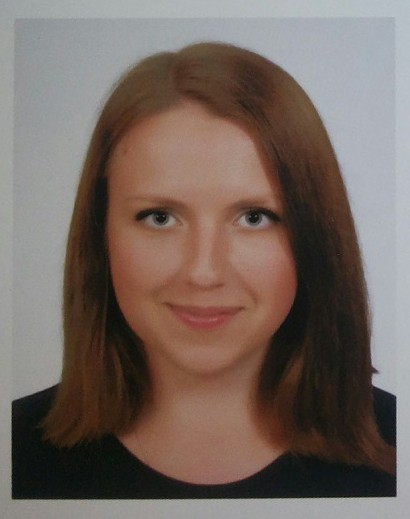
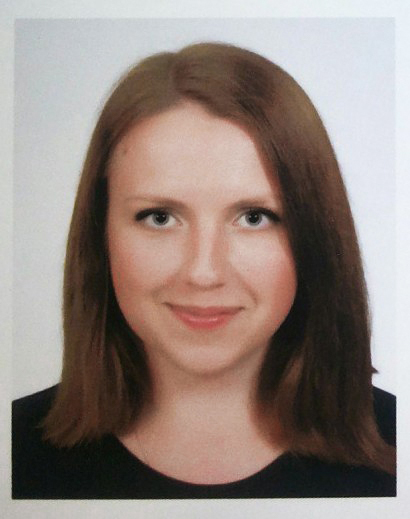
fix: fix images tint, rearrrange content and tweak styles for better readability

diff --git a/src/components/profile-card/profile-card.module.css b/src/components/profile-card/profile-card.module.css
@@ -10,7 +10,7 @@
 
 .image {
   width: 100%;
-  height: 360px;
+  height: 34rem;
   border-top-left-radius: var(--border-radius);
   border-top-right-radius: var(--border-radius);
 
@@ -20,7 +20,7 @@
 .outerContent {
   z-index: 50;
 
-  padding: 1rem;
+  padding: var(--padding-card);
   border-bottom-right-radius: var(--border-radius);
   border-bottom-left-radius: var(--border-radius);
 
@@ -31,16 +31,38 @@
 
 .fullname {
   font-size: 2.2rem;
+  font-weight: 500;
   text-align: center;
 }
 
 .readMore {
-  margin-top: 1rem;
+  position: relative;
+  margin-top: 2rem;
+  color: var(--color-accent-light);
   transition: color var(--transition-duration);
 }
 
+.readMore::after {
+  content: '';
+
+  position: absolute;
+  bottom: 0;
+  left: 50%;
+  transform: translateX(-50%);
+
+  display: block;
+
+  width: 35%;
+  height: 1px;
+
+  background-color: var(--color-accent-light);
+
+  transition: background-color var(--transition-duration);
+}
+
 .githubLink {
-  color: var(--color-accent-light);
+  font-family: var(--font-montserrat);
+  font-weight: 400;
   transition: color var(--transition-duration);
 }
 
@@ -48,18 +70,20 @@
   display: grid;
   gap: 2rem;
 
-  padding: 2rem;
+  padding: 2rem 3rem 3rem;
   border-radius: var(--border-radius);
 
-  background-color: var(--color-dark);
+  font-family: var(--font-montserrat);
+
+  background-color: var(--color-black);
 }
 
-.roles {
-  background-color: transparent;
+.modalContent .fullname {
+  font-family: var(--font-poppins);
 }
 
-.contributions {
-  background-color: transparent;
+.modalHeading {
+  color: var(--color-accent-light);
 }
 
 @media (hover: hover) {
@@ -74,5 +98,9 @@
 
   .card:hover .readMore {
     color: var(--color-accent);
+  }
+
+  .card:hover .readMore::after {
+    background-color: var(--color-accent);
   }
 }

diff --git a/src/shared/constants/team-data.ts b/src/shared/constants/team-data.ts
@@ -72,7 +72,7 @@ export const TEAM_DATA: TeamData = {
     },
     {
       avatarUrl: avatarAlena,
-      bio: 'Lorem ipsum dolor sit amet consectetur adipisicing elit. Impedit veritatis temporibus asperiores, perspiciatis blanditiis ab similique non eum error minus praesentium veniam deserunt corrupti repellendus officiis quas tempora molestiae sit. Fugiat quae tempore atque asperiores magni id illo mollitia iste ipsam eaque deserunt in adipisci assumenda, facere neque repellendus error cumque! Officiis ducimus suscipit voluptatibus, nam quia cum harum soluta quis reiciendis illo aliquid id quasi, aliquam ipsam adipisci consectetur eum cumque doloribus perspiciatis excepturi fugiat assumenda cupiditate repellendus maxime.',
+      bio: "I'm a passionate front-end developer who has been deeply focused on learning for over a year. Every single day I push myself forward — exploring new tools, solving challenges, and turning ideas into projects. Today, I'm confident working with vanilla JavaScript, have solid TypeScript skills, and I'm currently diving into Angular. Over the past year, I've built numerous practical projects and tackled lots of coding tasks — and every one of them helped me grow.",
       contributions: ['CI/CD'],
       fullname: 'Alena Radomskaia',
       github: { login: 'radomskaia', url: 'https://github.com/radomskaia' },

diff --git a/src/components/profile-card/profile-card.ts b/src/components/profile-card/profile-card.ts
@@ -1,6 +1,6 @@
 import type { ModalService } from '~/services/modal/modal.service';
 
-import { a, div, h3, img, li, p, ul } from '~/shared/create-element/tags';
+import { a, div, h3, h4, img, li, p, ul } from '~/shared/create-element/tags';
 
 import type { Component } from '../base-component/types';
 
@@ -70,11 +70,15 @@ export class ProfileCard extends BaseComponent implements Component {
       ...this.properties.roles.map((role) => li(null, role)),
     );
 
-    const rolesContainer = div(null, h3(null, PROFILE_CARD_TEXT.TITLE_ROLES), rolesElement);
+    const rolesContainer = div(
+      null,
+      h4({ className: styles.modalHeading }, PROFILE_CARD_TEXT.TITLE_ROLES),
+      rolesElement,
+    );
 
     const bioContainer = div(
       null,
-      h3(null, PROFILE_CARD_TEXT.TITLE_BIO),
+      h4({ className: styles.modalHeading }, PROFILE_CARD_TEXT.TITLE_BIO),
       p(null, this.properties.bio),
     );
 
@@ -86,7 +90,7 @@ export class ProfileCard extends BaseComponent implements Component {
       this.properties.contributions
         ? div(
             null,
-            h3(null, PROFILE_CARD_TEXT.TITLE_CONTRIBUTION),
+            h4({ className: styles.modalHeading }, PROFILE_CARD_TEXT.TITLE_CONTRIBUTION),
             ul(null, ...this.properties.contributions.map((item) => li(null, item))),
           )
         : null,

diff --git a/src/pages/about-us.ts b/src/pages/about-us.ts
@@ -51,8 +51,9 @@ export class AboutUsPage extends BaseComponent {
     const schoolSection = section(null, titleRSSchool, rsschoolLink);
 
     this.append(
-      collaborationSection,
       teamSection,
+      collaborationSection,
+
       supportSection,
       modalService.getView(),
       schoolSection,

diff --git a/src/pages/about-us.module.css b/src/pages/about-us.module.css
@@ -1,7 +1,7 @@
 .page {
   display: flex;
   flex-direction: column;
-  gap: 4rem;
+  gap: 5rem;
   margin-block: 5rem;
 }
 
@@ -42,6 +42,10 @@
 .rsIcon {
   border-radius: 50%;
   line-height: 0;
+}
+
+.paragraphCollaboration {
+  font-family: var(--font-montserrat);
 }
 
 @media (hover: hover) {

diff --git a/src/shared/create-element/tags.ts b/src/shared/create-element/tags.ts
@@ -14,6 +14,8 @@ export const h2 = createElementFactory('h2');
 
 export const h3 = createElementFactory('h3');
 
+export const h4 = createElementFactory('h4');
+
 export const header = createElementFactory('header');
 
 export const main = createElementFactory('main');
